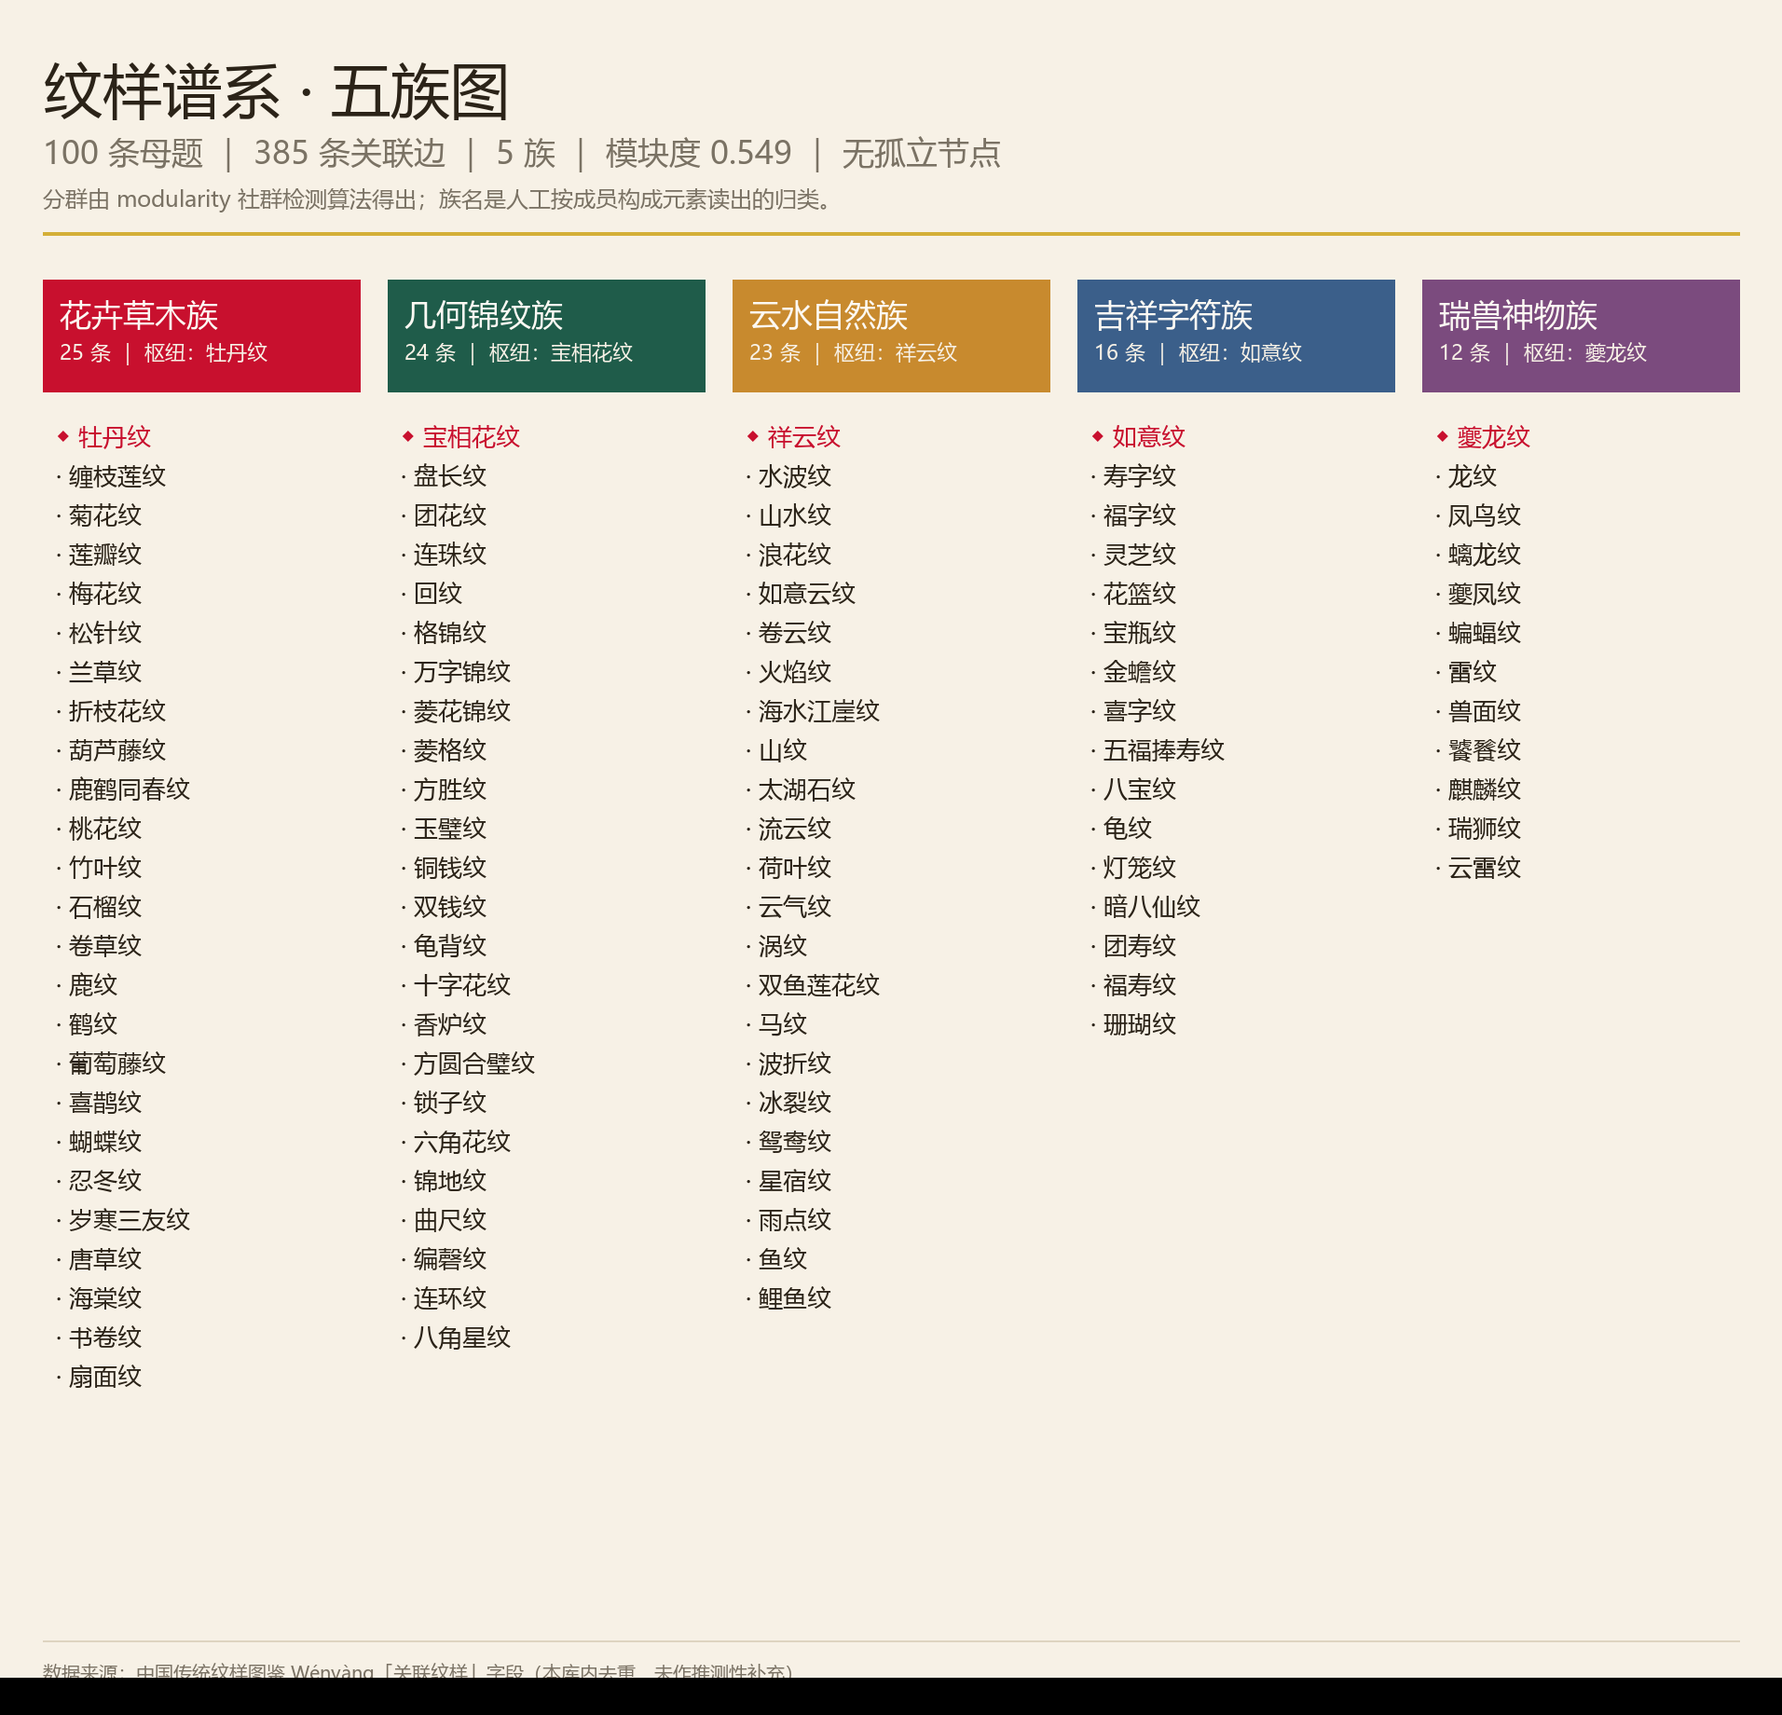
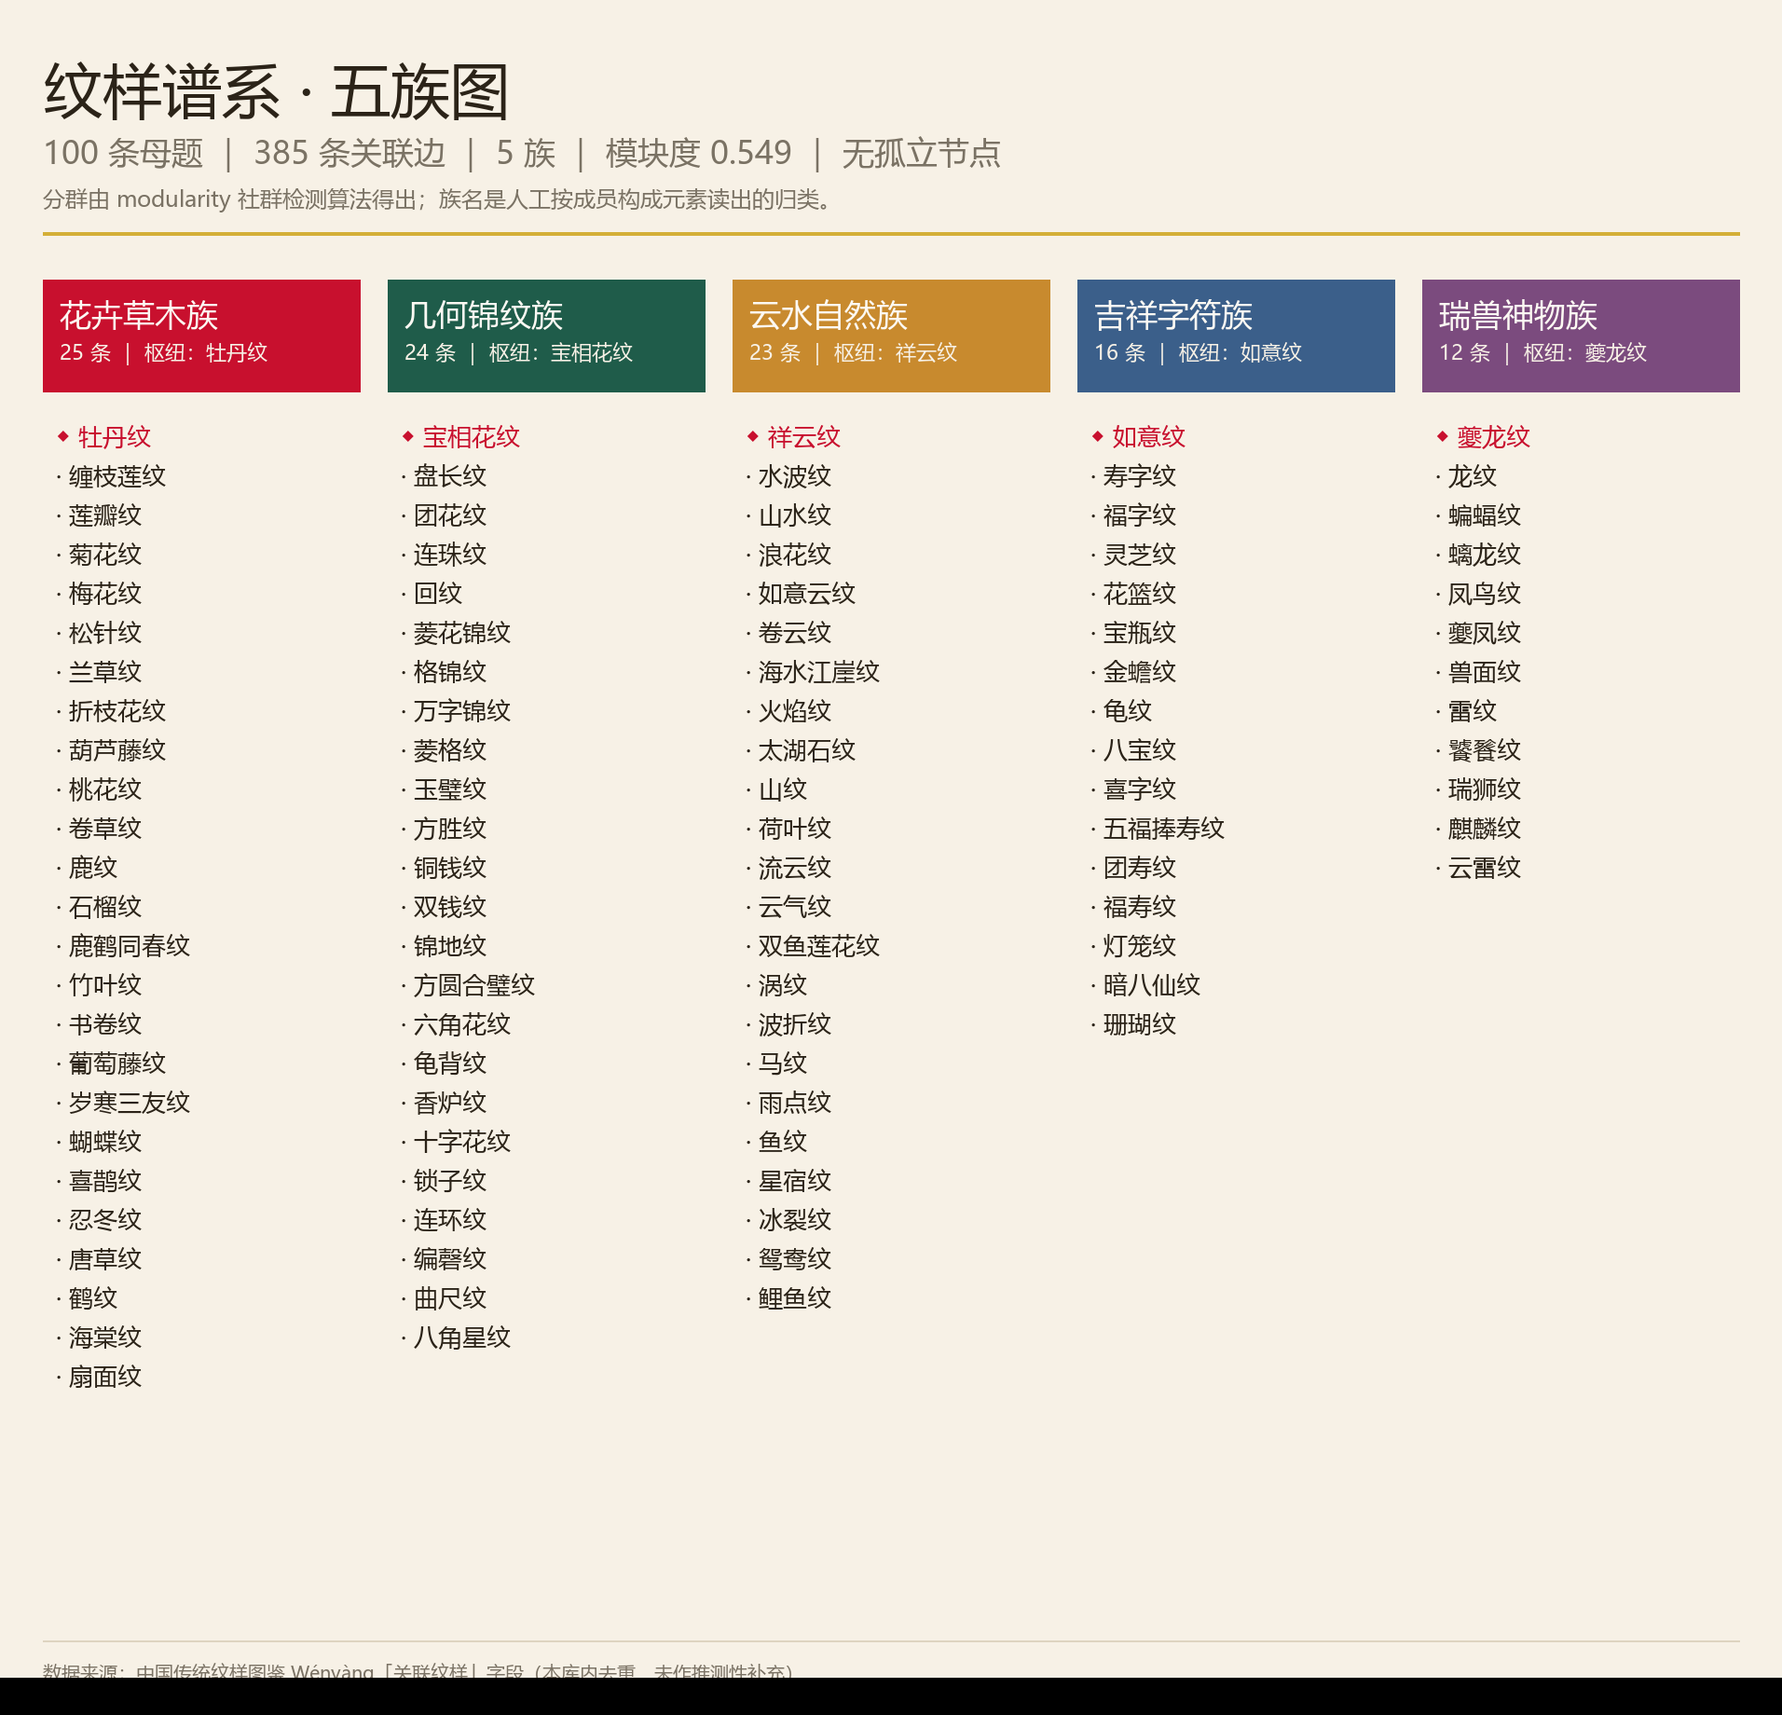
feat(app): 新增「纹样谱系」标签页 —— 亲缘图接入 Streamlit
三种溯源层次在界面上各自独立成页：
  元素级（生成与溯源）/ 谱系级（纹样谱系）/ 风险级（版权相似度审查）

为什么单独成页而不是塞进生成流程末尾：
  亲缘图是「全库级」视图（100 条母题之间的关联），与单个配方的生成无关；
  硬塞进生成页会造成语义混乱，让人误以为它跟当前配方有关。

页面内容（④ 区为非可省项）：
  ① 指标卡：100 母题 / 385 边 / 5 族 / 模块度 0.549 / 孤立 0
  ② 五族谱系图 + 五族成员名单（现算，可展开）
  ③ 母题关联网络 + 元素共现网络
  ④ ★ 消融实验负结论：关联数据对检索指标无正向作用
     （三种输入下 expand/boost 均未提升，如实展示，不做包装）

实现要点：
- _kinship() 现算指标与名单，不写死；模块度/社群数/孤立数一律算出
- _family_names() 从 build_kinship_graph 导入 FAMILY_NAMES，
  族名只维护一处，避免与图谱系图列错位
- 复用脚本的 load_graph()，不另写一遍读 samples.json 的逻辑
- 图谱直接展示脚本产出的 PNG（绘图逻辑已调好字体配色，重绘会两套实现发散）

顺带修复：
- build_kinship_graph: FAMILY_NAMES 提为模块级常量（供界面共用）
- build_kinship_graph: LINE_HEX 由 LINE 派生并上移到配色区
  （原定义在 draw_family_tree 之后，属隐性前置依赖）

自检：redline 0 命中（含反例验证）；check_glb_uv / check_style_ground 无回归；
headless Chrome 实测三标签页渲染正常、谱系页内容完整。

diff --git a/app.py b/app.py
@@ -1,14 +1,22 @@
 # app.py
 """纹初迹现 · 传统纹样可溯源生成系统 —— 演示界面（B7）。
 
-单页两个标签页：
+单页三个标签页：
   Tab 1「生成与溯源」    一句需求 → 配方 → 检索 → 校验 → 溯源卡片
   Tab 2「版权相似度审查」 上传任意图片 → 与样本库比对的相似度风险分级
+  Tab 3「纹样谱系」      全库 100 条母题的关联网络 / 五族谱系（**全库级视图**）
 
 ★ 为什么 M7 单独一个标签页：
     M4（组合式合成）尚未实现，生成流程里没有"合成图"可供比对。
     而 M7 的真实价值本来就是"审查任意一张设计图与本库是否雷同"，
     所以它天然适合作为独立入口，而不是硬挂在生成流程末尾。
+
+★ 为什么谱系图也单独一个标签页：
+    它是**全库级**视图（100 条母题之间的关联），与"某一个配方怎么生成"无关。
+    硬塞进生成页末尾会造成语义混乱 —— 用户会以为它跟当前配方有关。
+    注意区分两种溯源：① 本页是**谱系级**（这一类纹样跟谁最近）；
+                     ② 生成页的溯源卡片是**元素级**（这张图的每个部件来自哪条母题）。
+    两者互补，谱系级回答的是元素级给不出的问题。
 
 ★ 分步进度：
     pipeline.run() 支持 on_step 回调，界面据此逐步显示"解析需求… / 检索元素…"，
@@ -135,6 +143,13 @@ with st.sidebar:
     st.divider()
     st.caption(f"样本库：**{sample_count()} 条**纹样母题")
     st.divider()
+    st.markdown("**三种溯源层次**")
+    st.caption(
+        "- 元素级 — 每个部件的出处（生成页）\n"
+        "- 谱系级 — 这类纹样跟谁最近（纹样谱系页）\n"
+        "- 风险级 — 与库内是否雷同（版权审查页）"
+    )
+    st.divider()
     st.caption("**数据来源**")
     st.caption(ATTRIBUTION_SHORT)
     st.divider()
@@ -144,7 +159,8 @@ with st.sidebar:
 st.title("纹初迹现 · 传统纹样可溯源生成系统")
 st.caption("一句需求 →《纹样文化配方》→ 真实纹样元素检索 → 文化校验 → 元素级溯源卡片")
 
-tab_gen, tab_check = st.tabs(["生成与溯源", "版权相似度审查"])
+tab_gen, tab_check, tab_kin = st.tabs(
+    ["生成与溯源", "版权相似度审查", "纹样谱系"])
 
 # ================================================================ Tab 1
 with tab_gen:
@@ -443,3 +459,199 @@ with tab_check:
                     st.write("· " + x)
                 st.caption(f"⚠ {r.get('disclaimer', '')}")
         tmp.unlink(missing_ok=True)
+
+
+# ================================================================ Tab 3
+# 纹样谱系 —— 全库级视图。
+#
+# ★ 为什么用缓存的静态图，而不是在 Streamlit 里重绘
+#   scripts/build_kinship_graph.py 里的绘图逻辑已经调好了中文字体、配色与排版，
+#   在界面里再写一套 matplotlib 渲染 = 两套实现必然发散（改了脚本忘了改界面）。
+#   这里只做三件事：① 直接展示脚本产出的 PNG；② 现算指标卡；③ 现算五族名单。
+#
+# ★ 为什么指标与名单要现算、不能写死
+#   B2-3 曾硬编码"排不到第 1 的 5 条"，实测其中 2 条其实排到了第 1。
+#   凡清单必须从 samples.json 现算 —— 数据一变，图与文字就不同步了。
+def _load_kinship():
+    """复用 build_kinship_graph 的建图逻辑，返回 (母题图 G, 统计 dict, 五族列表)。
+
+    ★ 必须复用脚本里的 load_graph()，不能在这里另写一遍读 samples.json 的逻辑 ——
+      否则"图里画的"与"界面说的"是两套代码算出来的，迟早不一致。
+      该脚本无第三方副作用（matplotlib 用 Agg 后端，仅导入不弹窗）。
+    """
+    import importlib.util
+
+    spec = importlib.util.spec_from_file_location(
+        "_kinship_build", ROOT / "scripts" / "build_kinship_graph.py")
+    mod = importlib.util.module_from_spec(spec)
+    spec.loader.exec_module(mod)
+
+    G, _H, stats = mod.load_graph()
+    try:
+        from networkx.algorithms.community import (
+            greedy_modularity_communities, modularity)
+        comms = list(greedy_modularity_communities(G))
+        stats["modularity"] = round(float(modularity(G, comms)), 3)
+        stats["n_community"] = len(comms)
+    except Exception:
+        comms = []
+        stats["modularity"], stats["n_community"] = None, 0
+    deg = dict(G.degree())
+    if deg:
+        stats["max_degree_node"] = max(deg, key=deg.get)
+        stats["max_degree"] = max(deg.values())
+        stats["isolated"] = len(list(__import__("networkx").isolates(G)))
+    return G, stats, sorted(comms, key=len, reverse=True)
+
+
+@st.cache_data(show_spinner=False)
+def _kinship():
+    """把图对象转成可缓存的基本类型（networkx 对象不能被 cache_data 序列化）。
+
+    社群检测（385 边）与度数统计耗时约数十毫秒，缓存后 rerun 不再重算。
+    """
+    import networkx as nx
+
+    G, stats, comms = _load_kinship()
+    deg = dict(G.degree())
+    families = []
+    for c in comms:
+        mem = sorted(c, key=lambda n: -deg.get(n, 0))
+        families.append({
+            "size": len(mem),
+            "hub": mem[0] if mem else "—",
+            "hub_degree": deg.get(mem[0], 0) if mem else 0,
+            "members": [(n, deg.get(n, 0)) for n in mem],
+        })
+    return stats, families, nx.number_of_isolates(G)
+
+
+@st.cache_data(show_spinner=False)
+def _family_names():
+    """族名 —— 从脚本 import，**不在界面里另写一份**（两处各写必然错位）。"""
+    import importlib.util
+
+    spec = importlib.util.spec_from_file_location(
+        "_kinship_names", ROOT / "scripts" / "build_kinship_graph.py")
+    mod = importlib.util.module_from_spec(spec)
+    spec.loader.exec_module(mod)
+    return list(mod.FAMILY_NAMES)
+
+
+with tab_kin:
+    st.markdown("### 纹样谱系 · 全库级视图")
+    st.caption(
+        "把「单个纹样的溯源」升级为「纹样谱系」—— 回答一个元素级溯源给不出的问题："
+        "**这类纹样在谱系上跟谁最近？**"
+    )
+
+    stats_k, families, n_iso = _kinship()
+
+    st.divider()
+
+    # ---------- ① 指标卡 ----------
+    st.subheader("① 全库谱系指标")
+    k1, k2, k3, k4, k5 = st.columns(5)
+    k1.metric("母题节点", stats_k.get("n_motif", "—"))
+    k2.metric("关联边（去重）", stats_k.get("n_edge", "—"),
+              help=f"源数据「关联纹样」字段共 {stats_k.get('raw_refs', '—')} 次引用，"
+                   f"本库内去重后为无向边数")
+    k3.metric("社群（族）", stats_k.get("n_community", "—"))
+    k4.metric("模块度", stats_k.get("modularity", "—"),
+              help="modularity 社群检测算法的质量指标，越高说明分群越清晰")
+    k5.metric("孤立母题", n_iso,
+              help="没有任何关联边的母题数。为 0 说明全库连通，没有掉队的纹样")
+
+    if stats_k.get("max_degree_node"):
+        st.markdown(
+            f"**枢纽纹样**：`{stats_k['max_degree_node']}`（度 "
+            f"{stats_k['max_degree']}）—— 全库关联最多的母题，处在谱系中心位置。"
+        )
+    st.caption("关联数据完全取自源数据既有字段，**未作任何推测性补充**。")
+
+    st.divider()
+
+    # ---------- ② 五族谱系图 ----------
+    st.subheader("② 五族谱系图")
+    _ft = ROOT / "docs" / "figures" / "kinship_family_tree.png"
+    if _ft.exists():
+        st.image(str(_ft), width="stretch")
+        st.caption(
+            "分群由 modularity 社群检测算法得出；**族名是人工按成员构成元素读出的归类**，"
+            "不是算法输出。◆ 标记该族枢纽纹样。"
+        )
+    else:
+        st.warning(f"未找到五族谱系图（{_ft.relative_to(ROOT)}）。"
+                   "请运行 `python scripts/build_kinship_graph.py` 生成。")
+
+    # 五族名单：现算，可展开逐个查看
+    st.markdown("**各族成员名单**（按关联度数降序，现算自 `samples.json`）")
+    st.caption("族名按社群规模降序对应图谱系图中的列（从左到右）。"
+               "族名与图共用同一常量，不会错位。")
+    _names = _family_names()
+    for i, fam in enumerate(families):
+        _name = _names[i] if i < len(_names) else f"族 {i + 1}"
+        with st.expander(f"{_name} ｜ {fam['size']} 条 ｜ 枢纽：{fam['hub']}"
+                         f"（度 {fam['hub_degree']}）"):
+            _cols = st.columns(3)
+            for j, (n, d) in enumerate(fam["members"]):
+                _mark = "◆ " if n == fam["hub"] else "· "
+                _cols[j % 3].markdown(f"{_mark}{n}　`{d}`")
+
+    st.divider()
+
+    # ---------- ③ 网络图 ----------
+    st.subheader("③ 母题关联网络 / 元素共现网络")
+    _n1, _n2 = st.columns(2)
+    with _n1:
+        _p = ROOT / "docs" / "figures" / "kinship_motif_network.png"
+        if _p.exists():
+            st.image(str(_p), width="stretch")
+            st.caption("母题关联网络：节点大小按关联度数、颜色按社群。适合做 PPT 主视觉。")
+    with _n2:
+        _p = ROOT / "docs" / "figures" / "kinship_element_network.png"
+        if _p.exists():
+            st.image(str(_p), width="stretch")
+            st.caption("构成元素共现网络：两个元素若出现在同一条母题里则连边。")
+
+    st.divider()
+
+    # ---------- ④ 诚实的负结论（★ 必须有，否则演示时会被问住）----------
+    st.subheader("④ 这张图的价值，以及它**没有**做到的事")
+    st.markdown(
+        "关联数据对本系统的**检索指标没有正向作用** —— 这一点我们做了消融实验，如实报告："
+    )
+    _abl = [
+        ("输入=仅名称", "0.59", "0.19", "0.16"),
+        ("输入=名称+元素", "0.97", "0.96", "0.94"),
+        ("输入=仅元素", "0.96", "0.94", "0.91"),
+    ]
+    st.table({
+        "检索输入": [a[0] for a in _abl],
+        "基线 Top-1": [a[1] for a in _abl],
+        "+ 关联扩展 (expand)": [a[2] for a in _abl],
+        "+ 关联加权 (boost)": [a[3] for a in _abl],
+    })
+    st.caption("Top-1 命中率。三种输入下，引入关联数据均**未带来提升**（多为下降）。")
+
+    st.markdown(
+        "我们把这条**负结论**留在系统里，因为它是真的，而且它澄清了关联数据的正确用法：\n\n"
+        "- **不该**拿它去做检索扩展或加权 —— 实测无效，还会拖低指标；\n"
+        "- **应当**拿它做**可解释性**与**相关参考** —— 在检索结果里回答"
+        "「为什么这几个纹样常一起出现」，这是相似度分数给不出的信息。\n\n"
+        "`expand`（把关联纹样一并塞进候选）会把噪声一起带进来，"
+        "在「仅名称」输入下 Top-1 从 0.59 掉到 0.19，正说明这一点。"
+    )
+
+    st.info(
+        "**一句话总结**：谱系图不提升准确率，它提升的是**可理解性**。"
+        "这恰好是「可溯源生成系统」立项时最想解决的问题 —— "
+        "让机器给出的结果**有据可查、有理可讲**。"
+    )
+
+    with st.expander("查看完整消融实验结果（JSON）"):
+        _exp = ROOT / "docs" / "exp_related_motifs.json"
+        if _exp.exists():
+            st.json(json.loads(_exp.read_text(encoding="utf-8")))
+        else:
+            st.caption("未找到 docs/exp_related_motifs.json")

diff --git a/scripts/build_kinship_graph.py b/scripts/build_kinship_graph.py
@@ -60,11 +60,18 @@ RED = "#C8102E"
 GOLD = "#D4AF37"
 GREY = "#7A7264"
 LINE = "#DED4C0"
+# PIL 用 RGB 元组、matplotlib 用十六进制串 —— 同一个颜色两种表示，转换一次免得手抄出错
+LINE_HEX = tuple(int(LINE[i:i + 2], 16) for i in (1, 3, 5))   # (222, 212, 192)
 
 # 社群配色（中式色系，循环使用）
 PALETTE = ["#C8102E", "#1F5C4A", "#C88A2E", "#3B5F8A", "#7B4B7E",
            "#A8572B", "#4A7C59", "#8C3B4A", "#5B6E8C", "#9C7A3C",
            "#2E6E6A", "#A0522D"]
+
+# ★ 族名是**人工读"成员构成"后的归类**，不是算法输出 —— 图上与界面上都必须写清这一点。
+#   它是**按社群规模降序**排列的：社群检测的结果必须先排序再套名字，否则名字会串位。
+#   界面（app.py 的「纹样谱系」页）直接 import 本常量，避免两处各写一份而错位。
+FAMILY_NAMES = ["花卉草木族", "几何锦纹族", "云水自然族", "吉祥字符族", "瑞兽神物族"]
 
 
 def load_graph():
@@ -218,7 +225,8 @@ def draw_family_tree(G, out, stats):
     comms = sorted(comms, key=lambda c: -len(c))
 
     # ★ 族名是人工读"成员构成"后的归类，不是算法输出 —— 图上必须写清这一点
-    NAMES = ["花卉草木族", "几何锦纹族", "云水自然族", "吉祥字符族", "瑞兽神物族"]
+    #   常量提到模块级（FAMILY_NAMES），供 app.py 共用，避免两处错位
+    NAMES = FAMILY_NAMES
     CC = [RED, "#1F5C4A", "#C88A2E", "#3B5F8A", "#7B4B7E"]
 
     N = len(comms)
@@ -269,9 +277,6 @@ def draw_family_tree(G, out, stats):
            font=f_f, fill=PGREY)
     img = img.crop((0, 0, W, TOP + 1540))
     img.save(out, "PNG")
-
-
-LINE_HEX = (222, 212, 192)
 
 
 def main():
